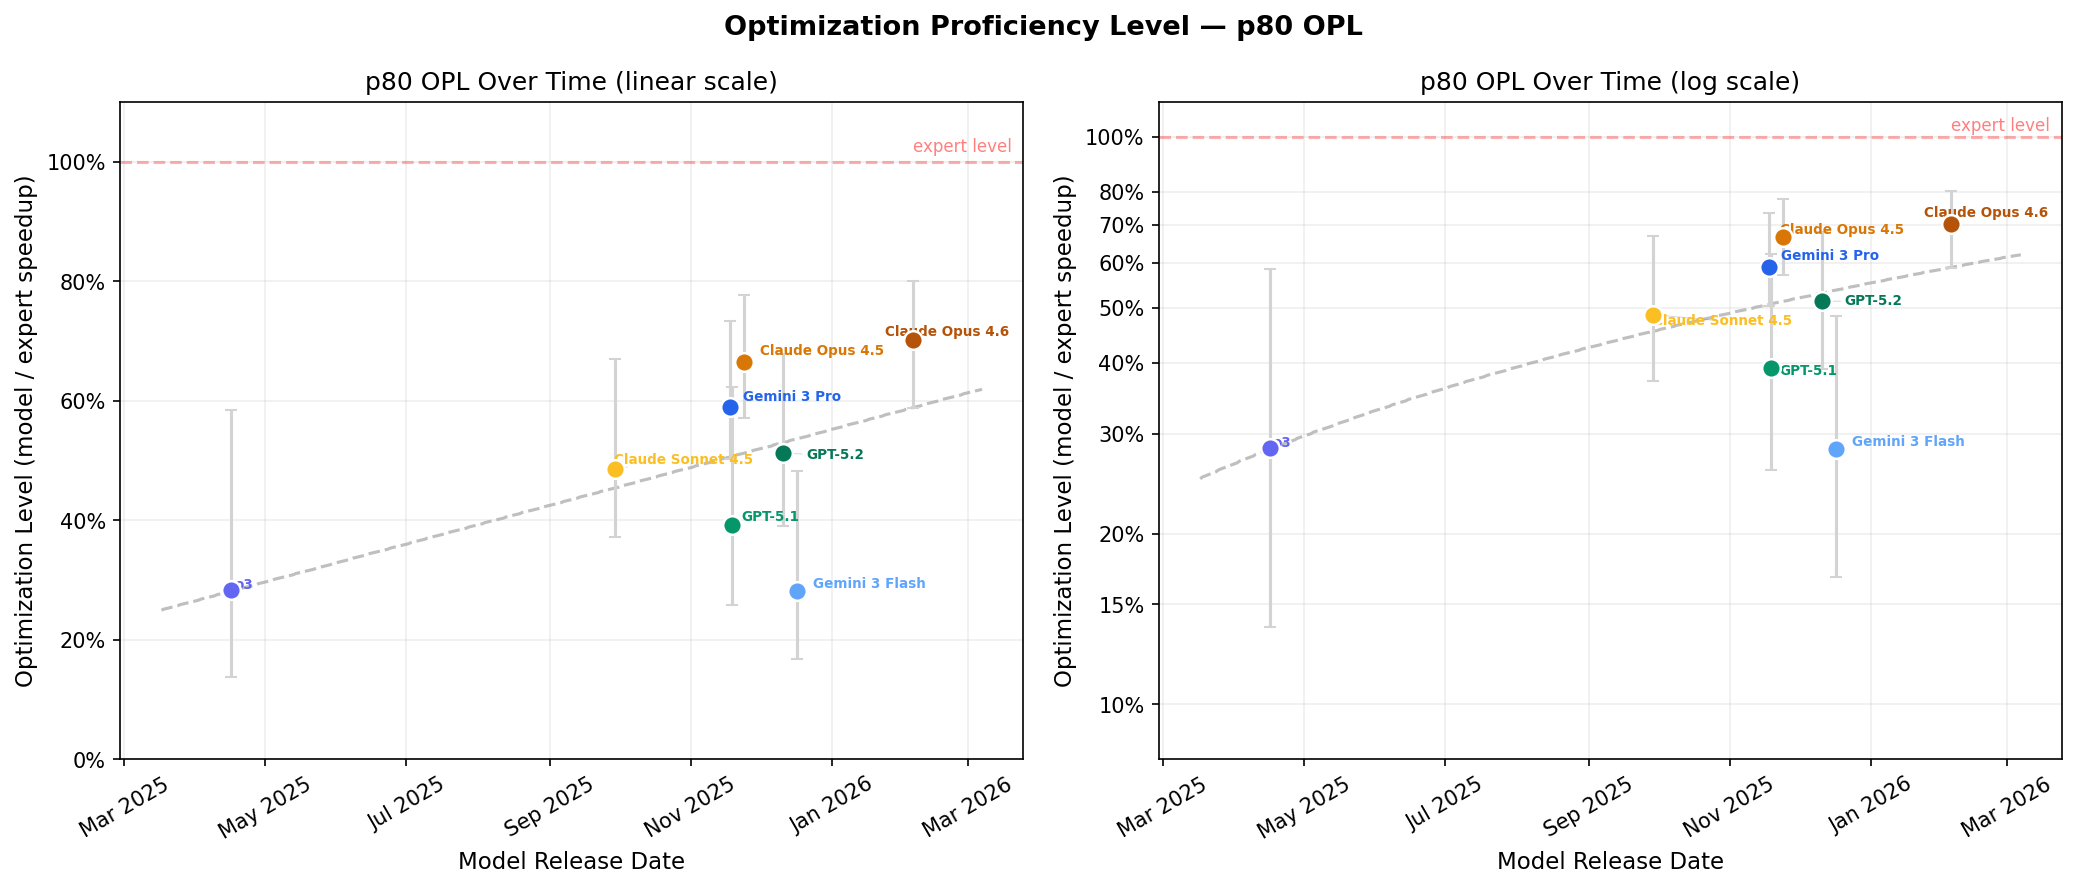
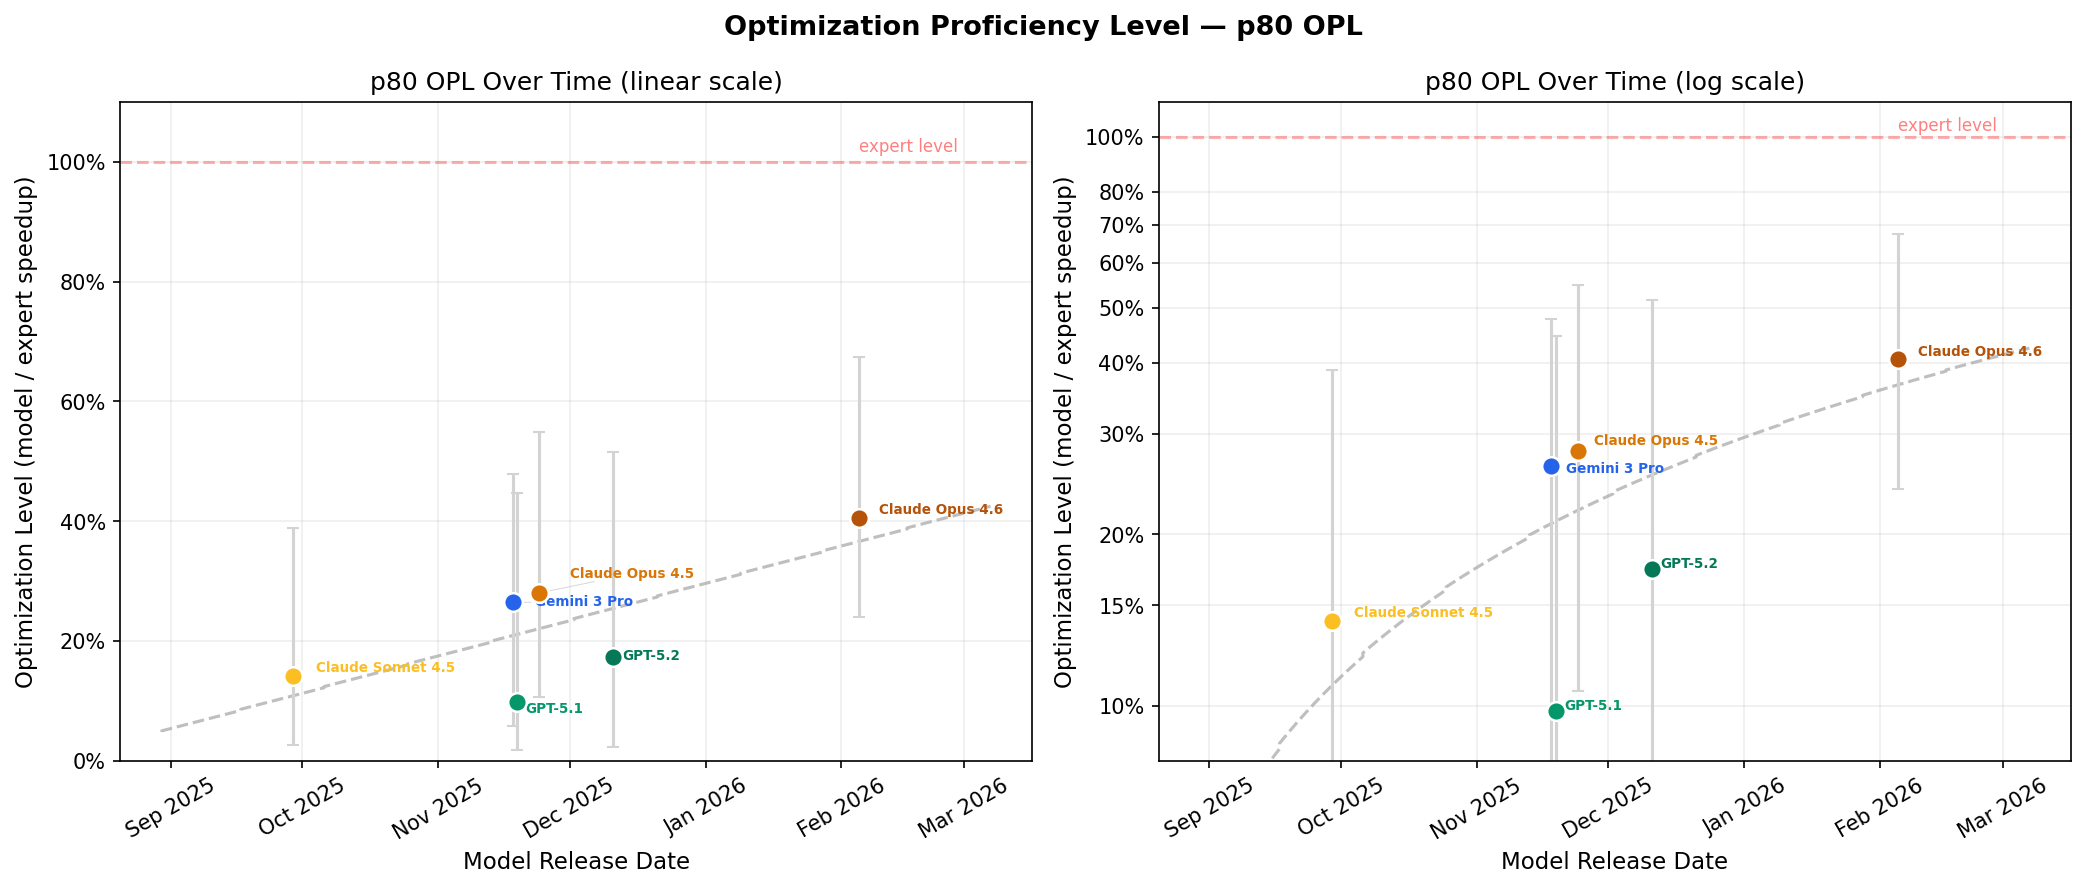
Use all instances as denominator so OPL matches leaderboard opt@1
The logistic curve was previously conditioned on test-passing instances
only (84/102 for Opus 4.6), inflating probabilities. At 95% threshold
it showed ~50% instead of the leaderboard's 33%.

Now test failures count as ratio=0, so the denominator is all 99
instances with expert speedup data. At 95% threshold Opus 4.6 now
shows ~39%, matching the empirical 36/99=36% and leaderboard 34/102=33%.

Key number changes (p50 OPL):
- Opus 4.6: 95% → 82%
- Opus 4.5: 90% → 70%
- GPT-5.2:  86% → 67%
- o3:       65% → 6% (only 47/99 pass tests)

Also: filter models with negative p80 from temporal p80 plot (o3,
Gemini 3 Flash have undefined p80 — >20% of instances are total
failures so 80% success is unreachable at any optimization level).

https://claude.ai/code/session_01L5KivAtewHJqMMmsU6mQNJ

diff --git a/analysis/optimization_proficiency.py b/analysis/optimization_proficiency.py
@@ -164,18 +164,26 @@ for row in ds:
 
 # ---------------------------------------------------------------------------
 # Compute optimization level (= model_speedup / expert_speedup) per model
+# Uses ALL instances as denominator — test failures count as ratio=0.
+# This makes the logistic directly comparable to leaderboard opt@1.
 # ---------------------------------------------------------------------------
+all_instance_ids = sorted(instance_expert_speedup.keys())
+
 model_ratios = {}  # model -> list of (inst_id, ratio)
 for model in MODELS:
     ratios = []
-    for inst_id, r in all_results[model].items():
-        if r is None or not r.get("test_passed"):
-            continue
-        expert_sp = instance_expert_speedup.get(inst_id)
-        model_sp = r.get("gm_speedup_patch_base")
-        if not expert_sp or not model_sp:
-            continue
-        ratios.append((inst_id, model_sp / expert_sp))
+    for inst_id in all_instance_ids:
+        r = all_results[model].get(inst_id)
+        if r and r.get("test_passed"):
+            model_sp = r.get("gm_speedup_patch_base")
+            expert_sp = instance_expert_speedup[inst_id]
+            if model_sp and expert_sp:
+                ratios.append((inst_id, model_sp / expert_sp))
+            else:
+                ratios.append((inst_id, 0.0))
+        else:
+            # Test failure or missing result → ratio = 0
+            ratios.append((inst_id, 0.0))
     model_ratios[model] = ratios
 
 # ---------------------------------------------------------------------------
@@ -236,11 +244,12 @@ print("=" * 70)
 print()
 
 fit_results = {}
-print(f"{'Model':20s} {'n':>4s} {'alpha':>7s} {'beta':>7s} {'p50 OPL':>10s} {'p80 OPL':>10s} {'p50 95% CI':>20s} {'p80 95% CI':>20s}")
-print("-" * 95)
+print(f"{'Model':20s} {'n':>4s} {'pass':>5s} {'alpha':>7s} {'beta':>7s} {'p50 OPL':>10s} {'p80 OPL':>10s} {'p50 95% CI':>20s} {'p80 95% CI':>20s}")
+print("-" * 105)
 
 for model in MODELS:
     ratios = model_ratios[model]
+    n_nonzero = sum(1 for _, r in ratios if r > 0)
     repos = [instance_meta.get(iid, {}).get("repo", "?") for iid, _ in ratios]
     alpha, beta, level_50, level_80 = fit_opl(ratios)
     p50_ci, p80_ci = bootstrap_opl(ratios, repos)
@@ -249,21 +258,21 @@ for model in MODELS:
         "level_50": level_50, "level_80": level_80,
         "p50_ci_lo": p50_ci[0], "p50_ci_hi": p50_ci[1],
         "p80_ci_lo": p80_ci[0], "p80_ci_hi": p80_ci[1],
-        "n": len(ratios),
+        "n": len(ratios), "n_nonzero": n_nonzero,
     }
     p50_ci_str = f"[{p50_ci[0]:.3f}, {p50_ci[1]:.3f}]" if p50_ci[0] else "N/A"
     p80_ci_str = f"[{p80_ci[0]:.3f}, {p80_ci[1]:.3f}]" if p80_ci[0] else "N/A"
     label = MODEL_LABELS.get(model, model)
-    print(f"{label:20s} {len(ratios):4d} {alpha:7.3f} {beta:7.3f} {level_50:10.1%} {level_80:10.1%} {p50_ci_str:>20s} {p80_ci_str:>20s}")
+    print(f"{label:20s} {len(ratios):4d} {n_nonzero:5d} {alpha:7.3f} {beta:7.3f} {level_50:10.1%} {level_80:10.1%} {p50_ci_str:>20s} {p80_ci_str:>20s}")
 
-# Models with enough data for reliable plots
-plotable_models = [m for m in MODELS if fit_results[m]["n"] >= MIN_N]
+# Models with enough non-zero (test-passing) instances for reliable logistic fit
+plotable_models = [m for m in MODELS if fit_results[m]["n_nonzero"] >= MIN_N]
 sorted_models = sorted(plotable_models, key=lambda m: -fit_results[m]["level_50"])
 
-print(f"\nModels with n >= {MIN_N} for plots: {len(sorted_models)}")
+print(f"\nModels with >= {MIN_N} test-passing instances for plots: {len(sorted_models)}")
 for m in MODELS:
-    if fit_results[m]["n"] < MIN_N:
-        print(f"  Skipping {MODEL_LABELS.get(m, m)} (n={fit_results[m]['n']})")
+    if fit_results[m]["n_nonzero"] < MIN_N:
+        print(f"  Skipping {MODEL_LABELS.get(m, m)} (n_pass={fit_results[m]['n_nonzero']})")
 
 # ---------------------------------------------------------------------------
 # Figure 1: Optimization Proficiency Curves (only models with enough data)
@@ -344,22 +353,27 @@ for metric, metric_label, filename in [
     ("p50", "p50 OPL", "opl_over_time_p50.png"),
     ("p80", "p80 OPL", "opl_over_time_p80.png"),
 ]:
+    # Filter to models with positive metric values (negative = undefined)
+    metric_data = [d for d in plot_data if d[metric] > 0]
+    metric_ordinals = np.array([d["date"].toordinal() for d in metric_data])
+
     fig, (ax_lin, ax_log) = plt.subplots(1, 2, figsize=(14, 6))
-    vals = np.array([d[metric] for d in plot_data])
+    vals = np.array([d[metric] for d in metric_data])
     ci_lo_key = f"{metric}_ci_lo"
     ci_hi_key = f"{metric}_ci_hi"
 
     for ax, title_suffix, is_log in [(ax_lin, "(linear scale)", False),
                                       (ax_log, "(log scale)", True)]:
         texts = []
-        for d in plot_data:
+        for d in metric_data:
             # CI error bars (light gray)
             if d[ci_lo_key] is not None and d[ci_hi_key] is not None:
-                yerr_lo = d[metric] - d[ci_lo_key]
-                yerr_hi = d[ci_hi_key] - d[metric]
-                ax.errorbar(d["date"], d[metric], yerr=[[yerr_lo], [yerr_hi]],
-                            fmt='none', ecolor='lightgray', capsize=3,
-                            capthick=1, elinewidth=1.5, zorder=2)
+                yerr_lo = max(0, d[metric] - d[ci_lo_key])
+                yerr_hi = max(0, d[ci_hi_key] - d[metric])
+                if yerr_lo > 0 or yerr_hi > 0:
+                    ax.errorbar(d["date"], d[metric], yerr=[[yerr_lo], [yerr_hi]],
+                                fmt='none', ecolor='lightgray', capsize=3,
+                                capthick=1, elinewidth=1.5, zorder=2)
 
             # Point
             ax.scatter(d["date"], d[metric], s=80, color=d["color"],
@@ -372,7 +386,7 @@ for metric, metric_label, filename in [
         # Trend line (linear regression on values vs time)
         valid = np.isfinite(vals) & (vals > 0)
         if valid.sum() >= 3:
-            ords = date_ordinals[valid]
+            ords = metric_ordinals[valid]
             y_vals = vals[valid]
             coeffs = np.polyfit(ords, y_vals, 1)
             trend_dates = np.linspace(ords.min() - 30, ords.max() + 30, 200)
@@ -383,7 +397,7 @@ for metric, metric_label, filename in [
 
         # Expert level reference
         ax.axhline(y=1.0, color="red", linestyle="--", alpha=0.3, linewidth=1.5)
-        ax.text(plot_data[0]["date"], 1.01, "expert level",
+        ax.text(metric_data[0]["date"], 1.01, "expert level",
                 color="red", fontsize=8, alpha=0.5, va="bottom")
 
         if is_log:
@@ -447,6 +461,7 @@ for model in all_sorted:
         "label": MODEL_LABELS.get(model, model),
         "release_date": MODEL_RELEASE_DATES.get(model, "unknown"),
         "n_instances": fr["n"],
+        "n_test_passing": fr["n_nonzero"],
         "p50_opl": round(fr["level_50"], 4),
         "p80_opl": round(fr["level_80"], 4),
         "logistic_alpha": round(fr["alpha"], 4),
